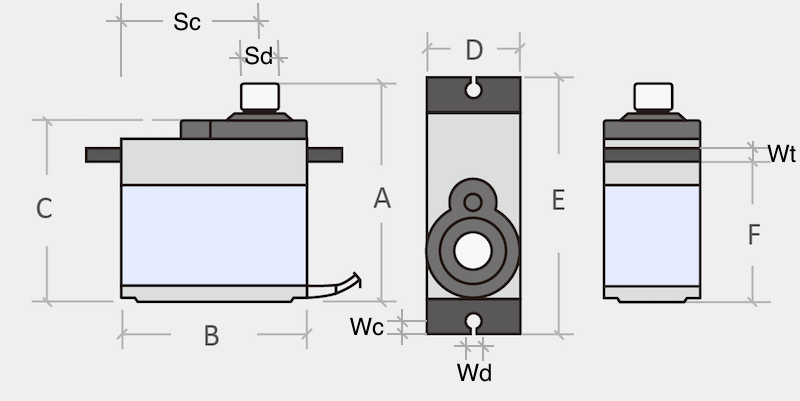
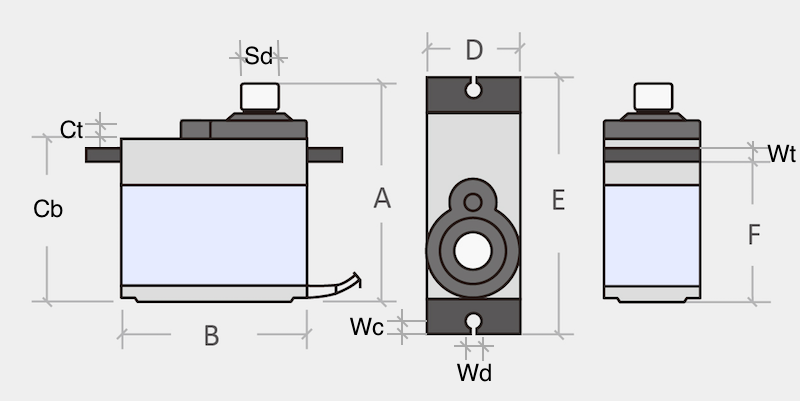
update for Human MG 90S servo - updated (default/demo) dimensions - improved demo: added indication of center - improved model: added turret, retired $c var

diff --git a/README.md b/README.md
@@ -7,10 +7,23 @@ Christophe VG <<contact@christophe.vg>>
 I sometimes work with (micro) servos and need to create 3D prints or cuts to create prototypes that run using the servos. This repository contains OpenSCAD supporting modules to do that.
 ## Servo Dimensions
 
-Although that (micro) servos "can" have "standard" dimensions, there are always small differences. The modules are therefore configurable with (for now) 11 parameters. The following image illustrates these:
+Although that (micro) servos "can" have "standard" dimensions, there are always small differences. The modules are therefore configurable with 11 parameters. The following image illustrates these:
 
 ![Servo Dimensions](servo-dimensions.png)
 
 The resulting model provides two modules: one of the servo and one that can be used to subtract from another shape to create a mounting hole. The demo module illustrates this:
+
+```js
+module demo() {
+  difference() {
+    cube([ 70, 50, 5 ] );
+    translate([25, 25, 0]) { servo_mount(t=5); }
+    translate([50, 25, 0]) { servo_mount(t=5); }
+  }
+  translate([25, 25, 5]) { color("red") { servo(); } }
+  // the servo and mount are centered around the spline
+  translate([25, 25, -40]) { color("blue") { cylinder(80, d=1); } }
+}
+```
 
 ![Demo Module](example.png)
